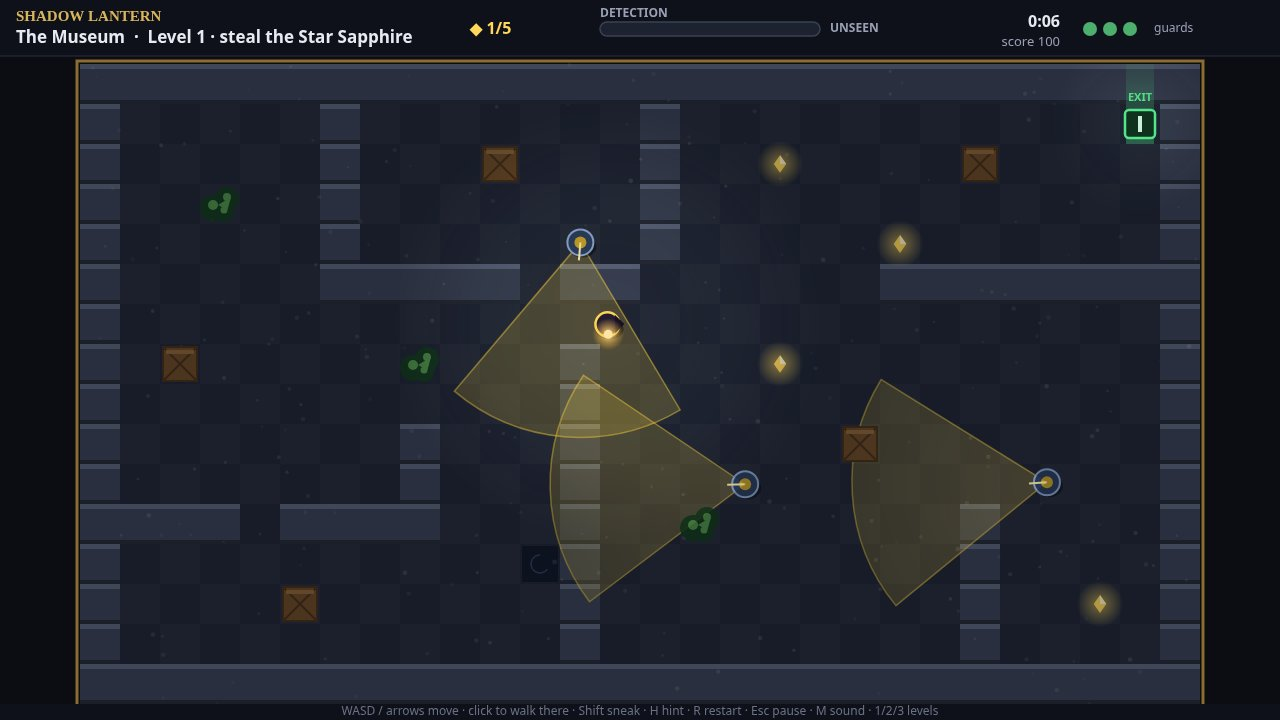
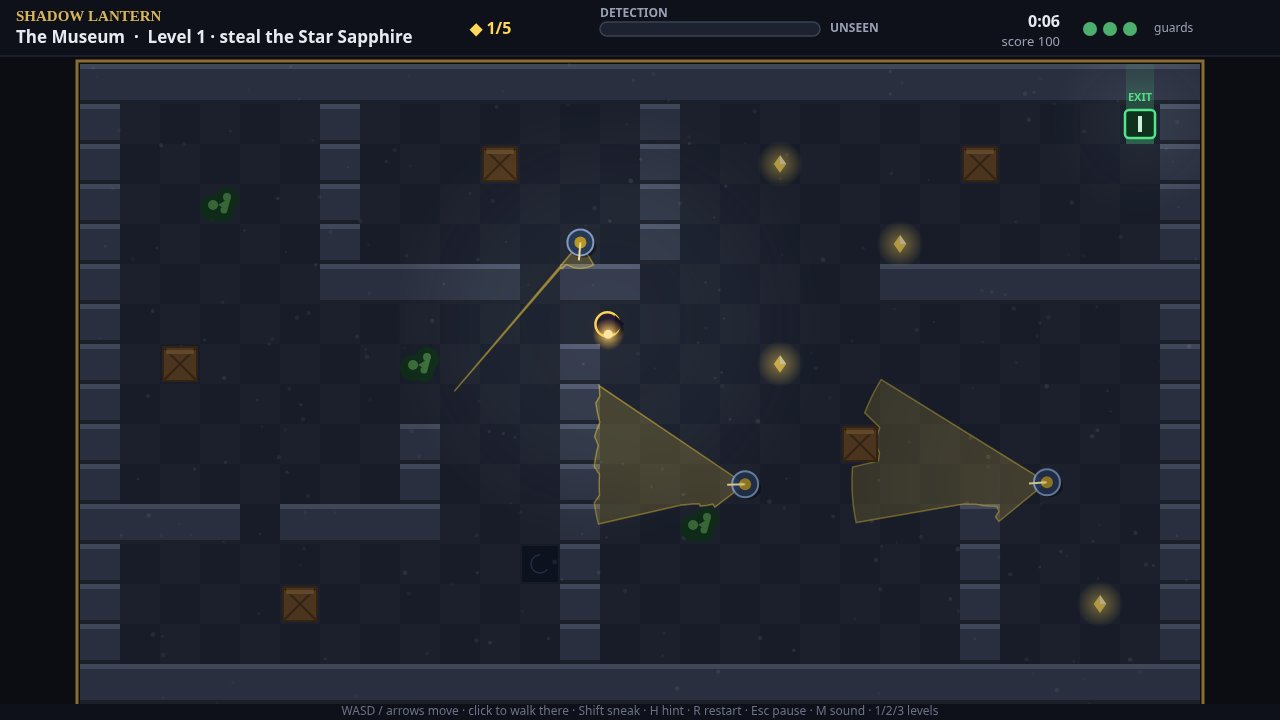
Clip guard vision cones to walls, crates and bushes (ray-cast cone polygons)

Changed region(s): [[0.3438, 0.3667, 0.5625, 0.825], [0.6562, 0.7028, 0.7812, 0.8556], [0.6562, 0.5806, 0.6875, 0.6111]]

diff --git a/game/src/render.js b/game/src/render.js
@@ -186,16 +186,45 @@ export function createRenderer(canvas) {
     ctx.fillRect(e.x - 2, e.y - 8, 4, 16);
   }
 
+  /** The guard's vision cone as a polygon: 26 rays across the cone, each
+   *  marched until it hits a wall, crate or bush, so the cone hugs the cover
+   *  instead of shining through it. Points are canvas pixels. */
+  function conePoints(state, guard) {
+    const p = px(guard.x, guard.y);
+    const rays = 26;
+    const pts = [];
+    for (let i = 0; i <= rays; i += 1) {
+      const ang = guard.facing - CONE_HALF_ANGLE + (2 * CONE_HALF_ANGLE * i) / rays;
+      let r = CONE_RANGE;
+      for (let d = 8; d <= CONE_RANGE; d += 6) {
+        const mx = guard.x + Math.cos(ang) * d;
+        const my = guard.y + Math.sin(ang) * d;
+        const tx = Math.floor(mx / TILE);
+        const ty = Math.floor(my / TILE);
+        if (tx < 0 || ty < 0 || tx >= MAP_COLS || ty >= MAP_ROWS) { r = d; break; }
+        const ch = state.tiles[ty][tx];
+        if (ch === '#' || ch === 'c' || ch === 'b') { r = d; break; }
+      }
+      pts.push({ x: p.x + Math.cos(ang) * r, y: p.y + Math.sin(ang) * r });
+    }
+    return pts;
+  }
+
+  function traceCone(c, state, guard) {
+    const p = px(guard.x, guard.y);
+    const pts = conePoints(state, guard);
+    c.beginPath();
+    c.moveTo(p.x, p.y);
+    for (const pt of pts) c.lineTo(pt.x, pt.y);
+    c.closePath();
+  }
+
   function drawCones(state) {
     for (const guard of state.guards) {
-      const p = px(guard.x, guard.y);
       const color = guard.state === 'alert'
         ? '255,60,60' : guard.state === 'suspicious' ? '255,150,40' : '255,214,64';
       const alpha = guard.state === 'alert' ? 0.34 : guard.state === 'suspicious' ? 0.3 : 0.2;
-      ctx.beginPath();
-      ctx.moveTo(p.x, p.y);
-      ctx.arc(p.x, p.y, CONE_RANGE, guard.facing - CONE_HALF_ANGLE, guard.facing + CONE_HALF_ANGLE);
-      ctx.closePath();
+      traceCone(ctx, state, guard);
       ctx.fillStyle = `rgba(${color},${alpha})`;
       ctx.fill();
       ctx.strokeStyle = `rgba(${color},0.5)`;
@@ -328,10 +357,7 @@ export function createRenderer(canvas) {
       g.addColorStop(0, 'rgba(255,255,255,0.5)');
       g.addColorStop(1, 'rgba(255,255,255,0)');
       dctx.fillStyle = g;
-      dctx.beginPath();
-      dctx.moveTo(gp.x, gp.y);
-      dctx.arc(gp.x, gp.y, CONE_RANGE, guard.facing - CONE_HALF_ANGLE, guard.facing + CONE_HALF_ANGLE);
-      dctx.closePath();
+      traceCone(dctx, state, guard);
       dctx.fill();
     }
     // The exit glows through the dark.
